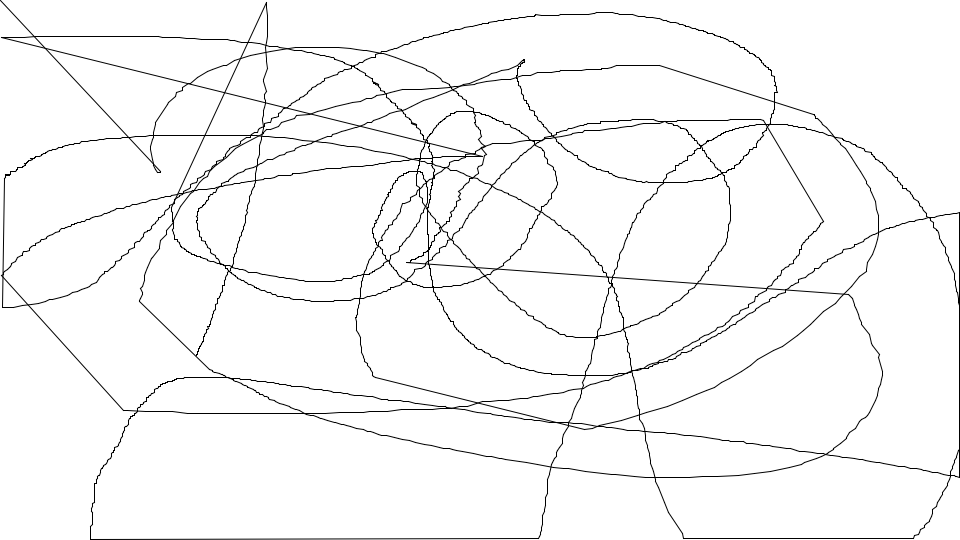
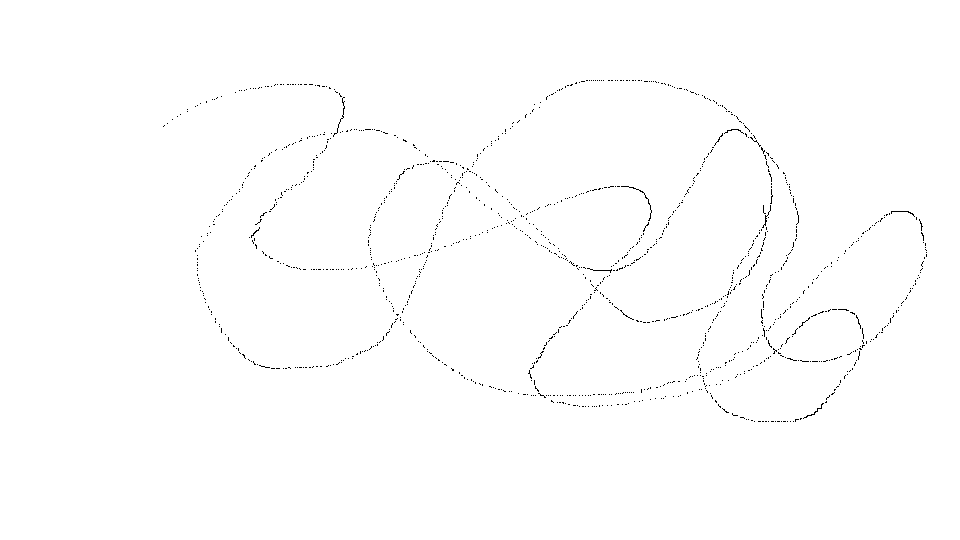
reparer pinceau car pointilles :(

diff --git a/AnimwareMVC/AWMotionBrush.java b/AnimwareMVC/AWMotionBrush.java
@@ -31,8 +31,8 @@ public class AWMotionBrush implements MouseMotionListener, MouseListener{
         currentX = e.getX();
         currentY = e.getY();
 		
-		oldX = e.getX() - theX;
-		oldY = e.getY() - theY;
+		oldX = e.getX();
+		oldY = e.getY();
 
 		theX = theawpaint.getDragX();
 		theY = theawpaint.getDragY();
@@ -45,7 +45,7 @@ public class AWMotionBrush implements MouseMotionListener, MouseListener{
 		  	    //dans l'image
 		  	    //System.out.println("Dedans ! (x="+currentX+" y="+currentY+" tx="+theX+" ty="+theY+")");
 
-	            theg2.drawLine(oldX, oldY, currentX - theX , currentY - theY );
+	            theg2.drawLine(oldX - theX, oldY - theY, currentX - theX , currentY - theY );
 
 
 			    //new AWBrush(currentX -theX, currentY - theY);
